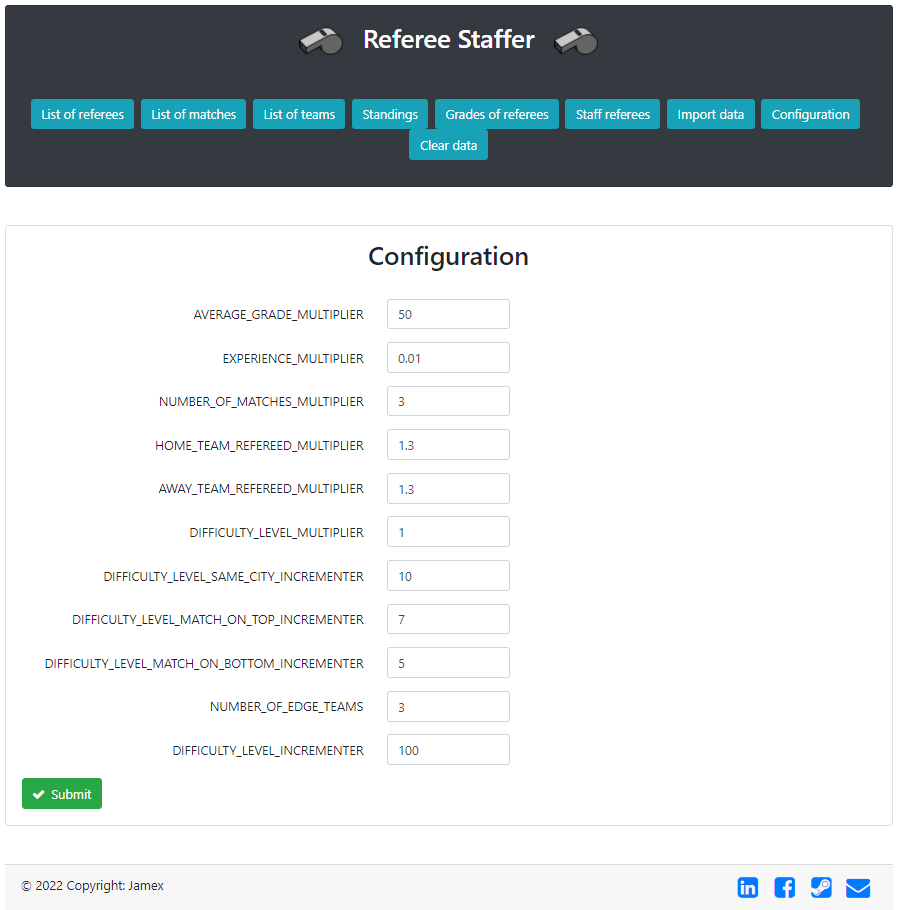
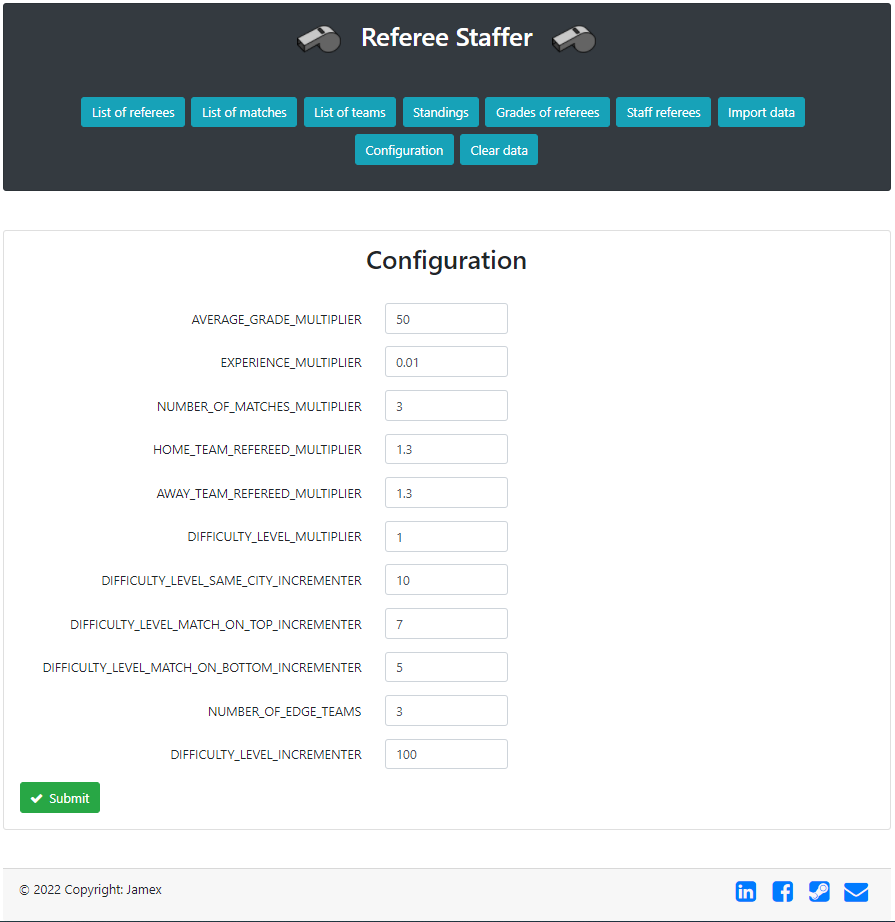
"Configuration" and "Clear data" buttons not visible by default

diff --git a/src/main/webapp/src/app/component/common/header/header.component.html b/src/main/webapp/src/app/component/common/header/header.component.html
@@ -25,15 +25,16 @@
     <li class="list-inline-item">
       <a routerLink="/staffer" class="btn btn-info">Staff referees</a>
     </li>
-    <!-- TODO add this button only for dev and local -->
     <li class="list-inline-item">
       <a routerLink="/importer" class="btn btn-info">Import data</a>
     </li>
-    <li class="list-inline-item">
-      <a routerLink="/configuration" class="btn btn-info">Configuration</a>
-    </li>
-    <li class="list-inline-item">
-      <a (click)="clearData()" routerLink="" class="btn btn-info">Clear data</a>
-    </li>
+    <div id="admin" [hidden]="true" class="mt-2">
+      <li class="list-inline-item">
+        <a routerLink="/configuration" class="btn btn-info">Configuration</a>
+      </li>
+      <li class="list-inline-item">
+        <a (click)="clearData()" routerLink="" class="btn btn-info">Clear data</a>
+      </li>
+    </div>
   </ul>
 </div>

diff --git a/src/main/webapp/src/app/component/common/header/header.component.ts b/src/main/webapp/src/app/component/common/header/header.component.ts
@@ -14,7 +14,7 @@ import {MatDialog} from "@angular/material/dialog";
 export class HeaderComponent {
 
   @Input()
-  title: string;
+  title: string
 
   constructor(private matchService: MatchService, private teamService: TeamService,
               private refereeService: RefereeService, private gradeService: GradeService,

diff --git a/README.md b/README.md
@@ -68,3 +68,8 @@ where
 ### Staffer
 
 ![](data/screenshots/staffer.png)
+
+### Admin panel
+
+To enable admin panel type in DevTools `admin.hidden=false`
+![](data/screenshots/adminPanel.PNG)
